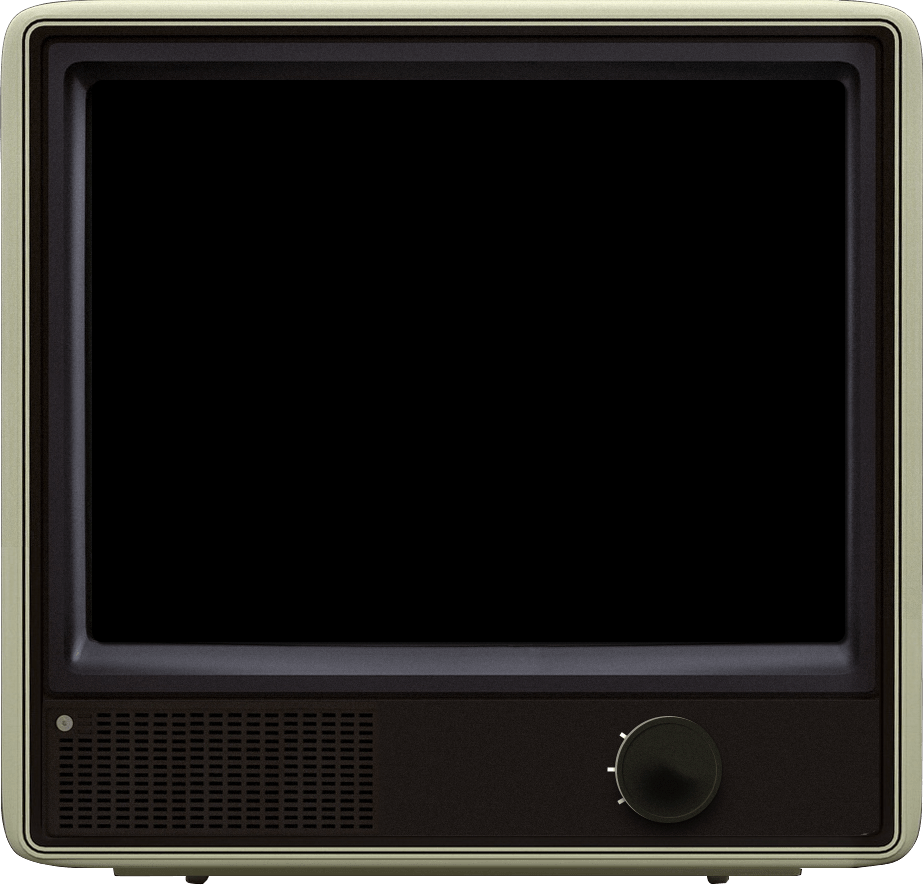
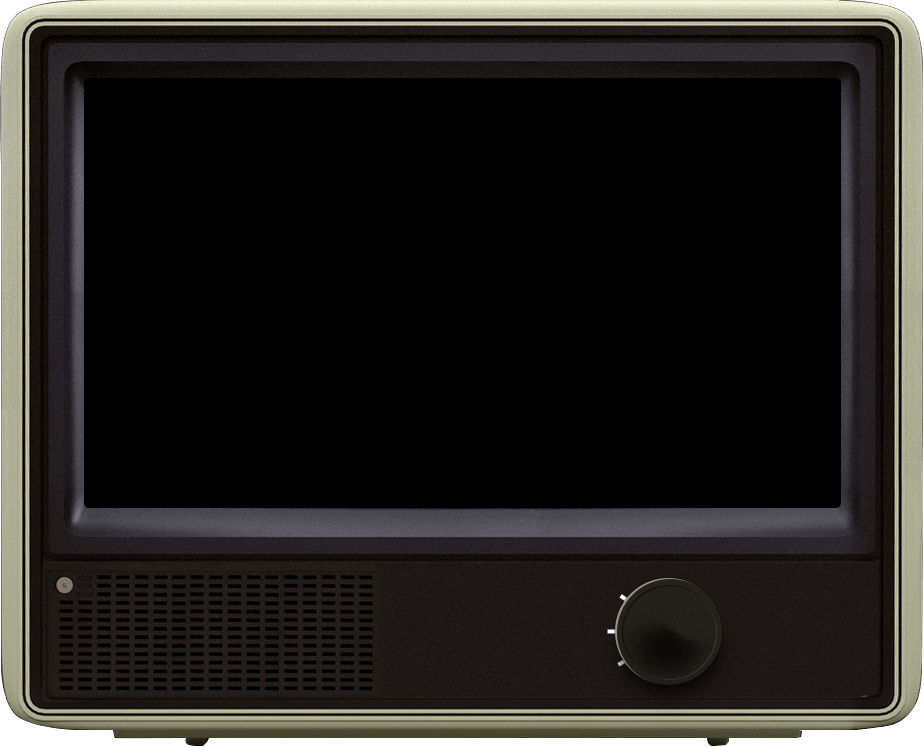
16:9
Cмена монитора с 4:3 на 16:9
мелкие правки

Changed region(s): [[0.0, 0.0, 1.0, 1.0]]

diff --git a/sass/screen.scss b/sass/screen.scss
@@ -203,7 +203,7 @@ ul.lof-navigator li.active img, ul.lof-navigator li:hover img {
   color:#dae2e8;
 }
 //player styles
-.flowplayer {width: 746px; height: 555px;}
+.flowplayer {width: 746px; height: 420px;}
 
 //metcast
 .metcast__content{@include vCtr;}
@@ -236,7 +236,7 @@ ul.lof-navigator li.active img, ul.lof-navigator li:hover img {
 
 .bg-tv{
   background: url(../images/bg-tv.png);
-  width:923px;height: 885px;
+  width:923px;height: 747px;
   position: relative;
   margin: 0 auto 70px;
   &:before{
@@ -255,7 +255,7 @@ ul.lof-navigator li.active img, ul.lof-navigator li:hover img {
   right: 60px;
   bottom:60px;
   height: 110px;
-  width:485px;
+  width:482px;
 }
 .tv__quality{
   position: absolute;

diff --git a/stylesheets/screen.css b/stylesheets/screen.css
@@ -695,7 +695,7 @@ ul.lof-navigator li.active img, ul.lof-navigator li:hover img {
 /* line 206, ../sass/screen.scss */
 .flowplayer {
   width: 746px;
-  height: 555px;
+  height: 420px;
 }
 
 /* line 209, ../sass/screen.scss */
@@ -742,7 +742,7 @@ ul.lof-navigator li.active img, ul.lof-navigator li:hover img {
 .bg-tv {
   background: url(../images/bg-tv.png);
   width: 923px;
-  height: 885px;
+  height: 747px;
   position: relative;
   margin: 0 auto 70px;
 }
@@ -766,7 +766,7 @@ ul.lof-navigator li.active img, ul.lof-navigator li:hover img {
   right: 60px;
   bottom: 60px;
   height: 110px;
-  width: 485px;
+  width: 482px;
 }
 
 /* line 260, ../sass/screen.scss */

diff --git a/index.html b/index.html
@@ -99,7 +99,7 @@
 
             <div class="tv__controls">
                 <!--title-->
-                <header class="tv__controls__title ir">Гитр</header>
+                <a href="http://gitr.tv/" class="tv__controls__title ir">Gitr.tv</a>
                 <!--quality stages-->
                 <div class="tv__quality">
                     <a href="#" class="tv__quality__item item-1"><span class="ir">Хорошее</span></a>
